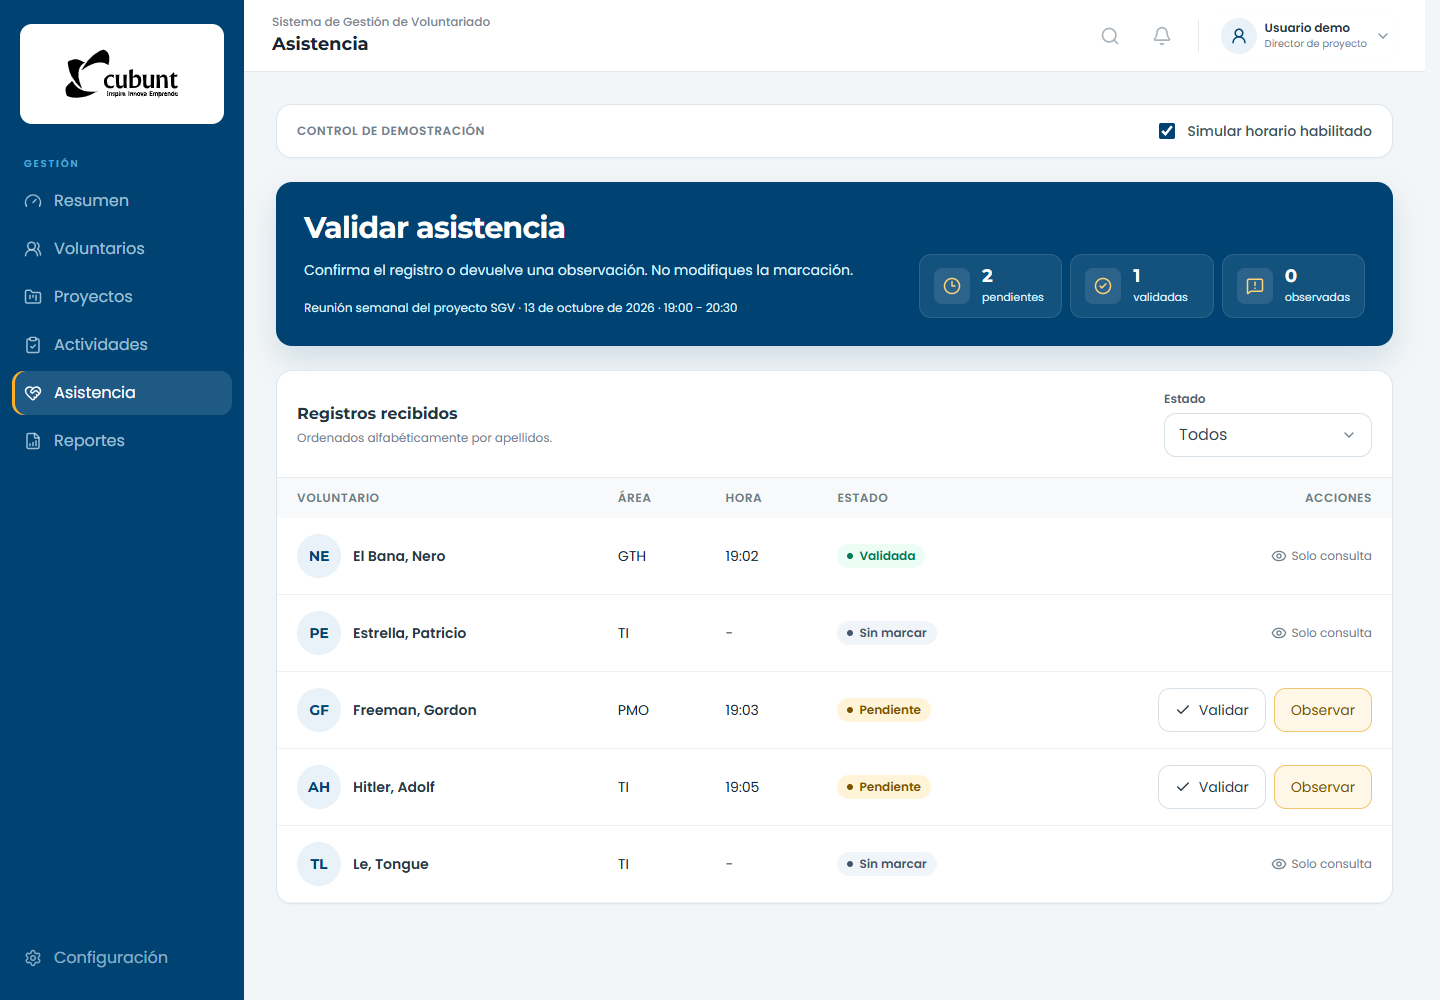
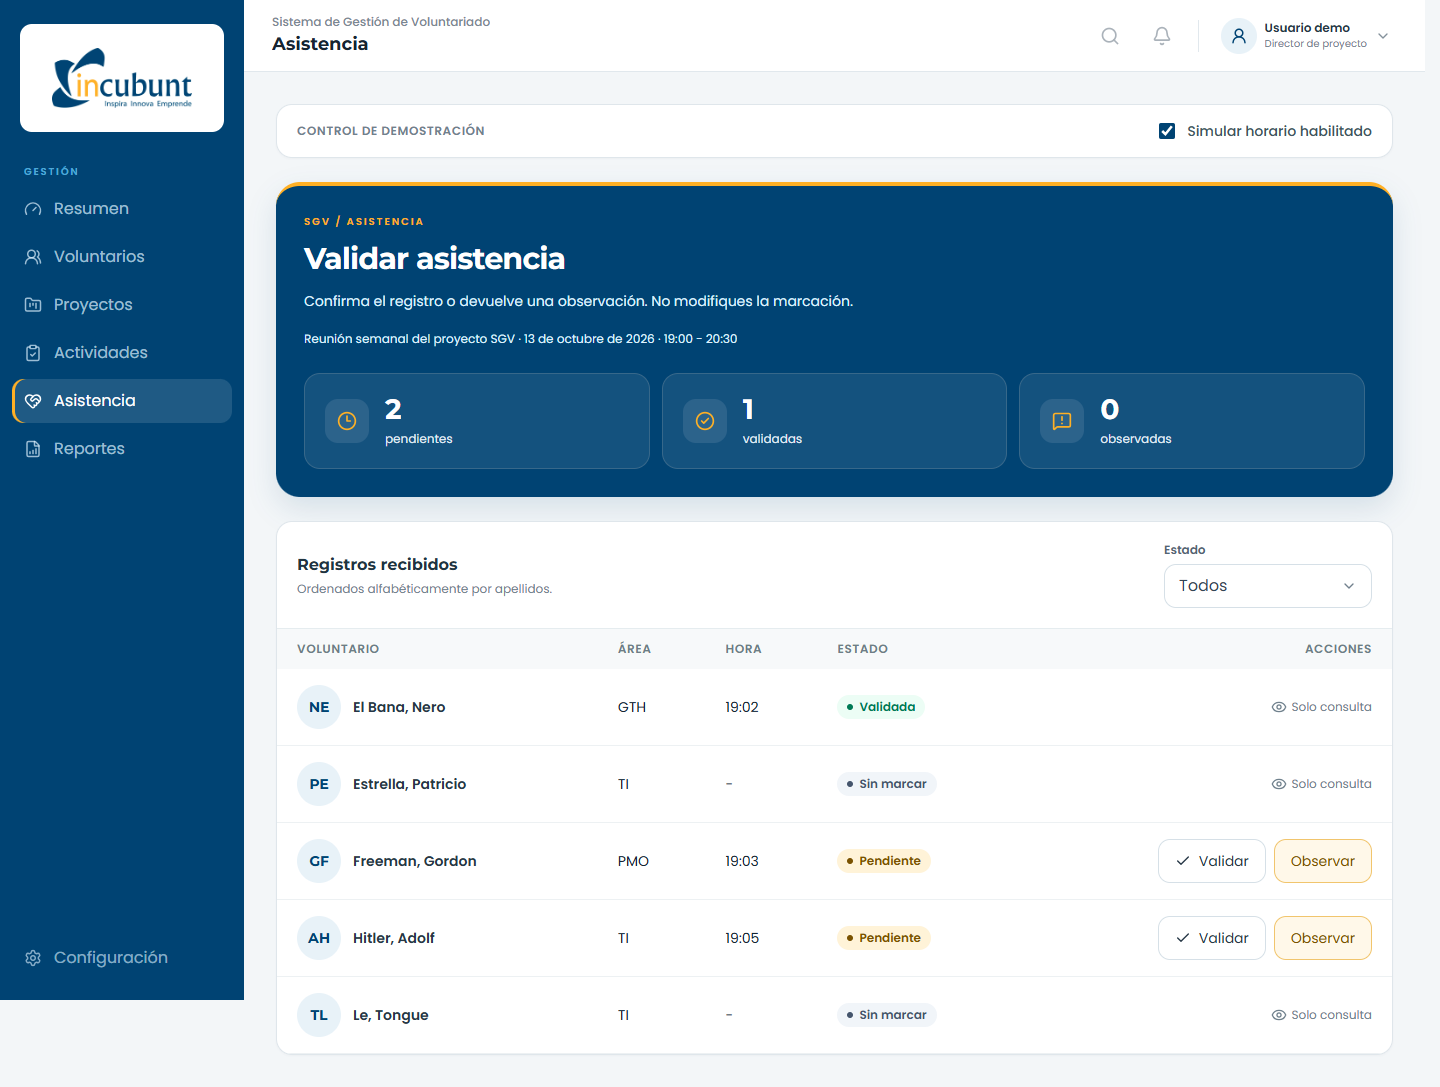
feat: renovar panel de asistencia y documentacion SGV

diff --git a/src/estilos.css b/src/estilos.css
@@ -75,3 +75,51 @@ textarea:focus-visible {
     outline: 3px solid rgb(255 176 37 / 45%);
     outline-offset: 2px;
 }
+
+/* Sistema visual SGV: superficies sólidas, sin filtros de desenfoque. */
+.cabecera-destacada {
+  border-radius: 24px;
+  border-top: 4px solid #ffb025;
+  background: #004373;
+  box-shadow: 0 12px 28px rgb(0 67 115 / 12%);
+}
+.metricas-destacadas { width: 100%; }
+.metrica-destacada {
+  min-width: 0;
+  padding: 20px;
+  border: 1px solid #37688a;
+  border-radius: 16px;
+  background: #14527e;
+  transition: border-color 180ms ease, background-color 180ms ease;
+}
+.metrica-destacada:hover { border-color: #ffb025; background: #194e74; }
+.metrica-destacada strong { font-family: Montserrat, sans-serif; font-size: 28px; letter-spacing: -.04em; line-height: 1.1; }
+.metrica-destacada p { margin-top: 5px; color: #e1edf5; font-size: 12px; }
+.metrica-destacada__icono {
+  display: grid; width: 44px; height: 44px; flex-shrink: 0;
+  place-items: center; border-radius: 13px; background: #2c638b; color: #ffb025;
+}
+.boton-sgv { transition: background-color 160ms ease, border-color 160ms ease, box-shadow 160ms ease; }
+.boton-sgv:not(:disabled):hover { box-shadow: 0 4px 12px rgb(0 67 115 / 12%); }
+.boton-sgv:not(:disabled):active { box-shadow: inset 0 2px 4px rgb(0 67 115 / 14%); }
+main > section, main > div { animation: aparecer-sgv 240ms ease-out; }
+@keyframes aparecer-sgv { from { opacity: .35; } to { opacity: 1; } }
+.indicador-circular {
+  display: flex; flex-direction: column; align-items: center; gap: 16px;
+  margin: 0; padding: 24px; text-align: center;
+}
+.indicador-circular__grafico { position: relative; width: 160px; height: 160px; flex-shrink: 0; }
+.indicador-circular svg { width: 100%; height: 100%; }
+.indicador-circular__grafico > strong {
+  position: absolute; inset: 0; display: flex; align-items: center; justify-content: center;
+  color: #004373; font-family: Montserrat, sans-serif; font-size: 36px; letter-spacing: -.05em;
+}
+.indicador-circular__grafico > strong span { font-size: 17px; margin-left: 3px; }
+.indicador-circular figcaption > strong { color: #172432; font-size: 14px; }
+.indicador-circular figcaption p { margin-top: 5px; color: #657381; font-size: 12px; line-height: 1.7; }
+.indicador-circular__arco { transition: stroke-dashoffset 400ms ease; }
+.barra-horas { animation: crecer-barra 420ms ease-out both; transform-origin: bottom; }
+@keyframes crecer-barra { from { transform: scaleY(0); } to { transform: scaleY(1); } }
+@media (prefers-reduced-motion: reduce) {
+  *, *::before, *::after { animation: none !important; transition: none !important; }
+}

diff --git a/src/Aplicacion.tsx b/src/Aplicacion.tsx
@@ -1,4 +1,5 @@
 import { useState } from "react";
+import { Toaster as Avisos, toast as notificar } from 'sonner'
 import { EstructuraSGV } from "./componentes/EstructuraSGV";
 import { VistaDirector } from "./componentes/VistaDirector";
 import { VistaPresidencia } from "./componentes/VistaPresidencia";
@@ -33,9 +34,11 @@ export function Aplicacion() {
                         : registro,
                 ),
             )
+            notificar.success('Asistencia marcada', { description: 'Registro actualizado en esta demostración. No se envió al servidor.' })
         }
 
         const validarAsistencia = (id : string) => {
+            if (rolVista !== 'Director de proyecto') return
             establecerRegistros((actuales) =>
                 actuales.map((registro) =>
                     registro.id === id
@@ -43,18 +46,22 @@ export function Aplicacion() {
                         : registro,
                 ),
             )
+            notificar.success('Asistencia validada', { description: 'Cambio local de la demostración.' })
         }
 
         const observarAsistencia = (id: string, observacion: string) => {
+            if (rolVista !== 'Director de proyecto' || !observacion.trim()) return
             establecerRegistros((actuales) =>
                 actuales.map((registro) =>
                     registro.id === id ? { ...registro, estado: 'Observada', observacion } : registro,
                 ),
             )
+            notificar('Observación registrada', { description: 'El motivo queda visible en la ficha de asistencia de esta demo.' })
         }
 
         return (
             <EstructuraSGV rol={rolVista} alCambiarRol={establecerRolVista}>
+                <Avisos position="bottom-right" closeButton toastOptions={{ style: { fontFamily: 'Poppins, sans-serif', background: '#ffffff', color: '#172432', border: '1px solid #dfe6eb', borderLeft: '4px solid #004373' } }} />
                 <section aria-label="Control de demostración" className="tarjeta-sgv mb-5 p-4 md:mb-6 md:px-5">
                     <div className="flex flex-col gap-3 sm:flex-row sm:items-center sm:justify-between">
                         <p className="text-xs font-semibold uppercase tracking-wider text-[#70818d]">Control de demostración</p>

diff --git a/src/componentes/VistaPresidencia.tsx b/src/componentes/VistaPresidencia.tsx
@@ -3,6 +3,7 @@ import { InsigniaEstado } from "./InsigniaEstado"
 import { CabeceraSeccion } from './CabeceraSeccion'
 import { TarjetaResumen } from './TarjetaResumen'
 import { AvatarVoluntario } from './AvatarVoluntario'
+import { IndicadorCircular } from './IndicadorCircular'
 import type { RegistroAsistencia, SesionAsistencia } from "../tipos/asistencia"
 
 interface PropiedadesVistaPresidencia {
@@ -35,6 +36,27 @@ export function VistaPresidencia({ sesion, registros }: PropiedadesVistaPresiden
                     {porcentaje < 30 ? 'Registro bajo' : porcentaje < 60 ? 'Registro intermedio' : 'Registro alto'}
                 </div>
             </CabeceraSeccion>
+
+            <div className="tarjeta-sgv grid items-center md:grid-cols-[280px_1fr]">
+                <IndicadorCircular porcentaje={porcentaje} etiqueta="Avance de registros" detalle={`${marcadas} registros recibidos de ${total} participantes`} />
+                <div className="space-y-4 p-5 md:p-7">
+                    <h3 className="font-titulos font-bold text-[#203441]">Distribución por estado</h3>
+                    {(['Validada', 'Pendiente', 'Observada', 'Sin marcar'] as const).map((estado) => {
+                        const cantidad = registros.filter((registro) => registro.estado === estado).length
+                        return (
+                            <div key={estado}>
+                                <div className="mb-2 flex items-center justify-between gap-3 text-xs text-[#536473]">
+                                    <span>{estado}</span><strong>{cantidad} de {total}</strong>
+                                </div>
+                                <div className="h-2 overflow-hidden rounded-full bg-[#e8f2f8]">
+                                    <div className={`h-full rounded-full ${estado === 'Pendiente' ? 'bg-incubunt-amarillo' : 'bg-incubunt-azul'}`}
+                                        style={{ width: `${total ? cantidad / total * 100 : 0}%` }} />
+                                </div>
+                            </div>
+                        )
+                    })}
+                </div>
+            </div>
 
             <div className="tarjeta-sgv overflow-hidden">
                 <div className="border-b border-[#e5ecef] p-5">

diff --git a/src/componentes/CabeceraSeccion.tsx b/src/componentes/CabeceraSeccion.tsx
@@ -10,14 +10,15 @@ interface PropiedadesCabecera {
 
 export function CabeceraSeccion({ id, titulo, descripcion, children, metricas }: PropiedadesCabecera) {
   return (
-    <div className="rounded-2xl bg-incubunt-azul px-5 py-6 text-white shadow-[0_14px_30px_rgba(0,67,115,.14)] md:px-7 md:py-7">
-      <div className="flex flex-col gap-6 xl:flex-row xl:items-end xl:justify-between">
+    <div className="cabecera-destacada px-5 py-6 text-white md:px-7 md:py-7">
+      <div className="flex flex-col gap-6">
         <div className="min-w-0">
+          <p className="mb-3 text-[10px] font-semibold uppercase tracking-[.2em] text-[#ffb025]">SGV / Asistencia</p>
           <h2 id={id} className="font-titulos text-2xl font-bold tracking-tight md:text-3xl">{titulo}</h2>
           <p className="mt-3 max-w-2xl text-sm leading-6 text-sky-100">{descripcion}</p>
           {children}
         </div>
-        {metricas && <div className="grid shrink-0 gap-2 sm:grid-cols-3">{metricas}</div>}
+        {metricas && <div className="metricas-destacadas grid gap-3 sm:grid-cols-3">{metricas}</div>}
       </div>
     </div>
   )

diff --git a/src/componentes/IndicadorCircular.tsx b/src/componentes/IndicadorCircular.tsx
@@ -1,0 +1,25 @@
+interface PropiedadesIndicador {
+  porcentaje: number
+  etiqueta: string
+  detalle: string
+}
+
+export function IndicadorCircular({ porcentaje, etiqueta, detalle }: PropiedadesIndicador) {
+  const valor = Math.min(100, Math.max(0, porcentaje))
+  const perimetro = 2 * Math.PI * 58
+  return (
+    <figure className="indicador-circular">
+      <div className="indicador-circular__grafico">
+        <svg viewBox="0 0 144 144" role="img" aria-label={`${etiqueta}: ${valor}%`}>
+          <circle cx="72" cy="72" r="58" fill="none" stroke="#e8f2f8" strokeWidth="12" />
+          <circle className="indicador-circular__arco" cx="72" cy="72" r="58" fill="none"
+            stroke="#004373" strokeWidth="12" strokeLinecap={valor === 0 ? 'butt' : 'round'}
+            strokeDasharray={perimetro} strokeDashoffset={perimetro * (1 - valor / 100)}
+            transform="rotate(-90 72 72)" />
+        </svg>
+        <strong aria-hidden="true">{valor}<span>%</span></strong>
+      </div>
+      <figcaption><strong>{etiqueta}</strong><p>{detalle}</p></figcaption>
+    </figure>
+  )
+}

diff --git a/src/componentes/TarjetaResumen.tsx b/src/componentes/TarjetaResumen.tsx
@@ -8,13 +8,13 @@ interface PropiedadesResumen {
 
 export function TarjetaResumen({ icono: Icono, valor, etiqueta }: PropiedadesResumen) {
   return (
-    <div className="flex items-center gap-3 rounded-xl border border-white/10 bg-[#14527e] px-3.5 py-3">
-      <div className="grid size-9 shrink-0 place-items-center rounded-lg bg-[#2c638b] text-[#ffd27b]">
-        <Icono className="size-4.5" />
+    <div className="metrica-destacada flex items-center gap-4">
+      <div className="metrica-destacada__icono">
+        <Icono className="size-5" />
       </div>
       <div>
-        <div className="font-titulos text-lg font-bold leading-none text-white">{valor}</div>
-        <div className="mt-1 text-[11px] text-sky-100">{etiqueta}</div>
+        <strong className="block text-white">{valor}</strong>
+        <p>{etiqueta}</p>
       </div>
     </div>
   )

diff --git a/src/componentes/EstructuraSGV.tsx b/src/componentes/EstructuraSGV.tsx
@@ -27,9 +27,9 @@ function ContenidoBarraLateral({ alCerrar }: { alCerrar?: () => void }) {
   return (
     <>
       <div className="px-5 pb-8 pt-6">
-        <div className="rounded-xl bg-white p-5">
-          <img src="/marca/isologo-incubunt.svg" alt="INCUBUNT: Inspira, Innova, Emprende"
-            className="mx-auto h-auto w-[120px]" />
+        <div className="rounded-xl bg-white p-6">
+          <img src="/marca/isologo-incubunt.png" alt="INCUBUNT: Inspira, Innova, Emprende"
+            className="mx-auto h-auto w-[140px]" />
         </div>
       </div>
       <nav className="flex-1 px-3" aria-label="Navegación principal">

diff --git a/src/componentes/Boton.tsx b/src/componentes/Boton.tsx
@@ -31,7 +31,7 @@ export function Boton({
   return (
     <button
       type={type}
-      className={`inline-flex shrink-0 items-center justify-center gap-2 rounded-xl
+      className={`boton-sgv inline-flex shrink-0 items-center justify-center gap-2 rounded-xl
         text-sm font-semibold transition focus-visible:outline-none focus-visible:ring-3
         focus-visible:ring-[#ffb025]/40 disabled:cursor-not-allowed disabled:opacity-50
         ${clasesPorTamaño[tamaño]} ${clasesPorVariante[variante]} ${className}`}

diff --git a/README.md b/README.md
@@ -1,10 +1,20 @@
-# SGV — Vista de Formato de Asistencia (Sprint 2)
+# SGV — Formato de asistencia
 
-Demo local con React, TypeScript, Vite, Tailwind, Radix y Lucide. Los roles son simulados y los datos están en memoria; no hay conexión a backend ni autorización real.
+Prototipo frontend del Sistema de Gestión de Voluntariado de INCUBUNT para registrar, revisar y consultar asistencia a sesiones de proyecto.
 
-## Ejecutar en otra computadora
+## Funcionalidades
 
-Instala Node.js 22.12 o superior compatible con Vite 8 y Git. Después:
+- Vista de voluntario con horario de sesión y estado de su registro.
+- Vista de dirección para filtrar, validar y observar registros.
+- Vista de Presidencia con indicadores y consulta de solo lectura.
+- Navegación adaptable a escritorio, tableta y móvil.
+- Confirmaciones de acciones y visualización del avance de registros.
+
+## Instalación
+
+![Panel de asistencia](docs/capturas/director-escritorio.png)
+
+Requisitos: Git y Node.js 22.12 o superior compatible con Vite 8. El repositorio es privado y requiere acceso autorizado.
 
 ```powershell
 git clone https://github.com/OleOle19/sgv-asistencia-sprint-2.git
@@ -13,20 +23,41 @@ npm ci
 npm run dev -- --port 5174
 ```
 
-Abre `http://localhost:5174`. El repositorio es privado: necesitas acceso autorizado para clonarlo. No requiere claves, base de datos ni archivo `.env`.
+Abre http://localhost:5174. No requiere base de datos, claves ni archivo de entorno.
 
-## Cambios y pruebas
+## Desarrollo y pruebas
 
-Consulta [la guía de continuidad visual](docs/Guia_Continuidad_Visual.md) para recorrer los cambios en orden. Mantiene la estructura del sprint 1 y adapta únicamente el contenido de asistencia.
+| Comando | Uso |
+| --- | --- |
+| `npm run dev` | Servidor de desarrollo |
+| `npm run build` | Validación de tipos y compilación |
+| `npm run lint` | Revisión estática |
+| `npm run prueba:funcional` | Pruebas de los tres roles y capturas |
+| `npm run preview` | Vista previa de la compilación |
 
-Con el servidor activo en el puerto 5174, `npm run prueba:funcional` verifica las vistas y genera capturas. El resto de verificaciones son `npm run build` y `npm run lint`.
+Las pruebas de navegador requieren el servidor activo en el puerto 5174 y Edge o Chrome instalado. Las capturas se generan en `docs/capturas`.
 
-## Ubicación del proyecto SGV
+## Tecnologías y estructura
 
-El proyecto ahora se ejecuta directamente desde `Vista de Formato de Asistencia (Sprint 2)`.
-La carpeta `aplicacion` ya no existe: su contenido se movió a esta raíz, sin eliminar código ni documentos.
+React, TypeScript, Vite, Tailwind CSS, Radix UI, Lucide y Sonner. Montserrat y Poppins se sirven localmente.
 
-En esta carpeta ejecuta `npm run dev`. Para verificar el código, utiliza `npm run build` y `npm run lint`.
+```text
+src/componentes/  Estructura, controles y vistas
+src/datos/        Sesión y registros de demostración
+src/tipos/        Contratos de asistencia
+public/marca/     Isologo institucional
+scripts/         Pruebas de navegador
+docs/            Documentación y capturas
+```
 
-La guía PDF original utiliza rutas con el prefijo `aplicacion/`; omite ese prefijo.
-Por ejemplo, `aplicacion/src/Aplicacion.tsx` ahora es `src/Aplicacion.tsx`.
+## Alcance
+
+El menú de usuario simula tres roles. El control de horario permite probar el estado de apertura de la sesión. Los cambios se mantienen en memoria y se restablecen al recargar.
+
+No hay autenticación, autorización de servidor ni conexión a backend. Los avisos de confirmación indican acciones locales, no un guardado remoto. No debe utilizarse con información personal real.
+
+## Colaboración
+
+Trabaja en una rama y envía un pull request. Ejecuta la compilación, la revisión estática y las pruebas antes de solicitar revisión.
+
+Consulta los [componentes visuales e interacciones](docs/ACTUALIZACION_VISUAL.md).

diff --git a/docs/ACTUALIZACION_VISUAL.md b/docs/ACTUALIZACION_VISUAL.md
@@ -1,0 +1,22 @@
+# Interfaz SGV: componentes y verificación
+
+## Criterios
+
+El diseño utiliza azul #004373, amarillo #FFB025, Montserrat y Poppins. Se utiliza el isologo a color del paquete de marca, sin modificar sus píxeles ni su composición, dentro de una superficie blanca con espacio de protección. El recurso SVG permanece disponible como archivo alternativo.
+
+La navegación es una propuesta local pendiente de la plantilla oficial. Los cambios visuales no sustituyen los requisitos de campos, orden, permisos simulados o secciones móviles.
+
+## Orden de implementación
+
+1. **Recursos y estilos:** `public/marca` y `src/estilos.css`. Las clases `cabecera-destacada`, `metrica-destacada` y `boton-sgv` definen superficies, jerarquía y estados de interacción. Se evita el desenfoque y se conserva la compensación de la barra de desplazamiento.
+2. **Indicador circular:** `IndicadorCircular.tsx` dentro de la carpeta de componentes de interfaz. Recibe porcentaje, etiqueta y detalle. El perímetro es `2 * Math.PI * 58`; el desplazamiento del trazo representa la fracción que falta. Se limita el valor entre 0 y 100 y se proporciona un nombre accesible.
+3. **Vistas:** las pantallas reciben valores calculados; el indicador no calcula asistencia ni decide permisos. Los estados tienen texto además del color.
+4. **Interacción:** el directorio permite quitar filtros individualmente y seleccionar meses con ratón o teclado. En asistencia, Sonner confirma marcado, validación y observación como cambios locales; los estados de los registros siguen siendo la fuente de información persistente en pantalla.
+5. **Movimiento:** se limita a entradas breves y barras de la gráfica. No se transforman los contenedores generales o el logo. Con `prefers-reduced-motion`, las animaciones y transiciones se desactivan.
+6. **Pruebas:** compilar, revisar tipos y ejecutar las pruebas con el servidor de desarrollo activo. Las pruebas de navegador incluyen los nuevos controles y capturan las pantallas cuando las animaciones terminan.
+
+## Dependencias
+
+Los indicadores son SVG/CSS propios. Sonner se incorporó únicamente al sprint 2, siguiendo el patrón de notificaciones documentado por [shadcn/ui](https://ui.shadcn.com/docs/components/radix/sonner) y la [documentación de Sonner](https://sonner.emilkowal.ski/).
+
+No se copió código de React Bits Pro ni se incorporaron Swapy o GSAP. Los filtros removibles aplican el patrón de [chips](https://namethatui.com/web/badge-chip-pill); no requieren instalar una biblioteca adicional.

diff --git a/docs/REVISION_HERRAMIENTAS_UI.md b/docs/REVISION_HERRAMIENTAS_UI.md
@@ -109,4 +109,4 @@ Precauciones: Miller no significa que cada pantalla solo pueda tener siete eleme
 
 ## 9. Qué se hizo en esta revisión
 
-Se armonizó el sprint 2 con el sprint 1 mediante componentes propios de React, TypeScript, Tailwind, Radix y Lucide. Se añadió navegación móvil, un selector de estado coherente y estados vacíos. Se mantuvieron datos y lógica de asistencia. No se instalaron Swapy, React Bits Pro, GSAP o shadcn; las nuevas primitivas Radix cubren menú móvil y selector. La validación automática comprueba los tres roles en escritorio, tableta y móvil; no equivale a una auditoría completa de accesibilidad.
+Ambos sprints comparten criterios visuales mediante componentes propios de React, TypeScript, Tailwind, Radix y Lucide. El directorio incorpora filtros activos removibles y selección de meses en la gráfica; asistencia incorpora Sonner para confirmar acciones locales. Los indicadores circulares y barras son componentes SVG/CSS propios. No se instalaron Swapy, React Bits Pro, GSAP ni la herramienta de inicialización de shadcn. La validación automática comprueba roles, interacción y vistas de escritorio, tableta y móvil; no equivale a una auditoría completa de accesibilidad.
